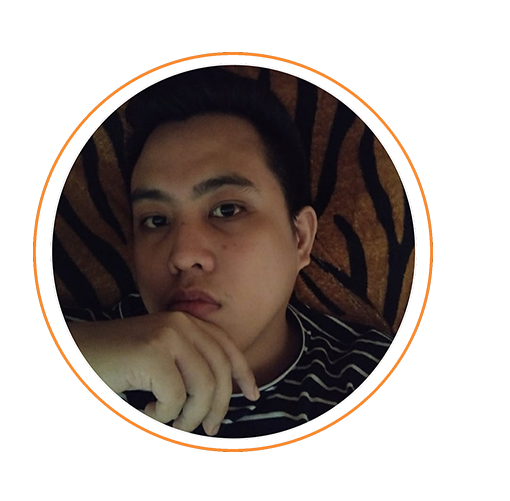
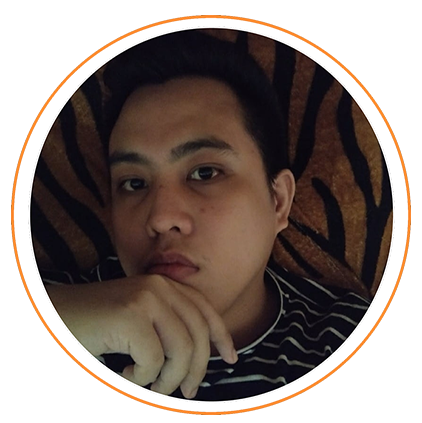
first commit

diff --git a/index.html b/index.html
@@ -5,6 +5,7 @@
     <meta name="viewport" content="width=device-width, initial-scale=1">
     <title>JohndelSiriban</title>
     <link rel="stylesheet" href="MyPortfolio.css">
+    <link rel="stylesheet" href="WebMobile.css">
     <link href="https://cdn.jsdelivr.net/npm/bootstrap@5.2.0-beta1/dist/css/bootstrap.min.css" rel="stylesheet" integrity="sha384-0evHe/X+R7YkIZDRvuzKMRqM+OrBnVFBL6DOitfPri4tjfHxaWutUpFmBp4vmVor" crossorigin="anonymous">
     <link rel="stylesheet" href="https://cdnjs.cloudflare.com/ajax/libs/font-awesome/4.7.0/css/font-awesome.min.css">
 </head>
@@ -42,11 +43,11 @@
 <! -- this is the Homepage Content  --> 
     <div class="home container-fluid">
         <div class="row ">
-            <div class="col-xs-6"">
-                <img src="img/Profile5.png " class="mx-5" width="90%" height="auto">
+            <div class="col-sm-6 col-sx-3 py-4 text-center">
+                <img src="img/Profile5.png " width="auto" height="95%" >
             </div>
             <! -- About me Content  --> 
-            <div class="col-sm-6 pt-5">     
+            <div class="col-sm-6  pt-5">     
                   <p id="Hi">Hi, <span>I'm Johndel</span></p>
                   <p id="Intro">4th year computer engineering student at Cavite 
                    University CCAT Campus. I’m dedicating  to

diff --git a/MyPortfolio.css b/MyPortfolio.css
@@ -63,7 +63,7 @@ nav.navbar.navbar-expand-lg{
    #Intro{
        font-size:20px;
        text-align:justify;
-       width:450px ;
+       max-width: 500px;
        /*padding-right: 120px;*/  
    }
    /*more about me next page*/

diff --git a/WebMobile.css b/WebMobile.css
@@ -1,0 +1,6 @@
+@media only screen and (max-width: 450px) {
+       #Hi{
+        font-size: 3.3em;
+        text-align: center;
+       }
+  }
